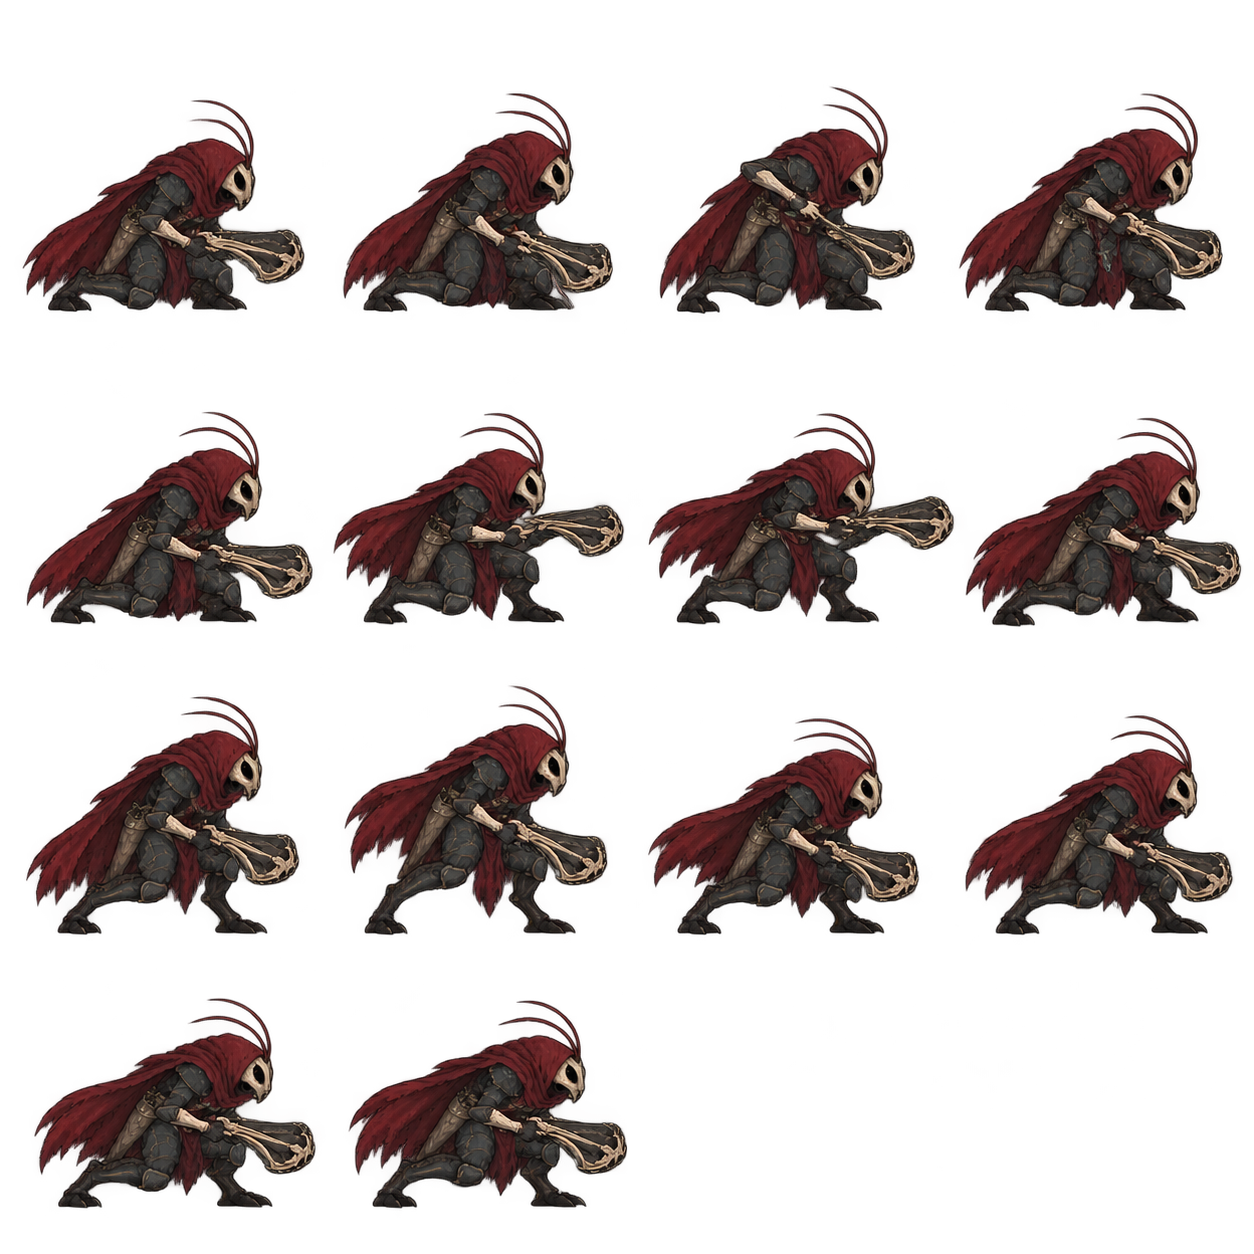
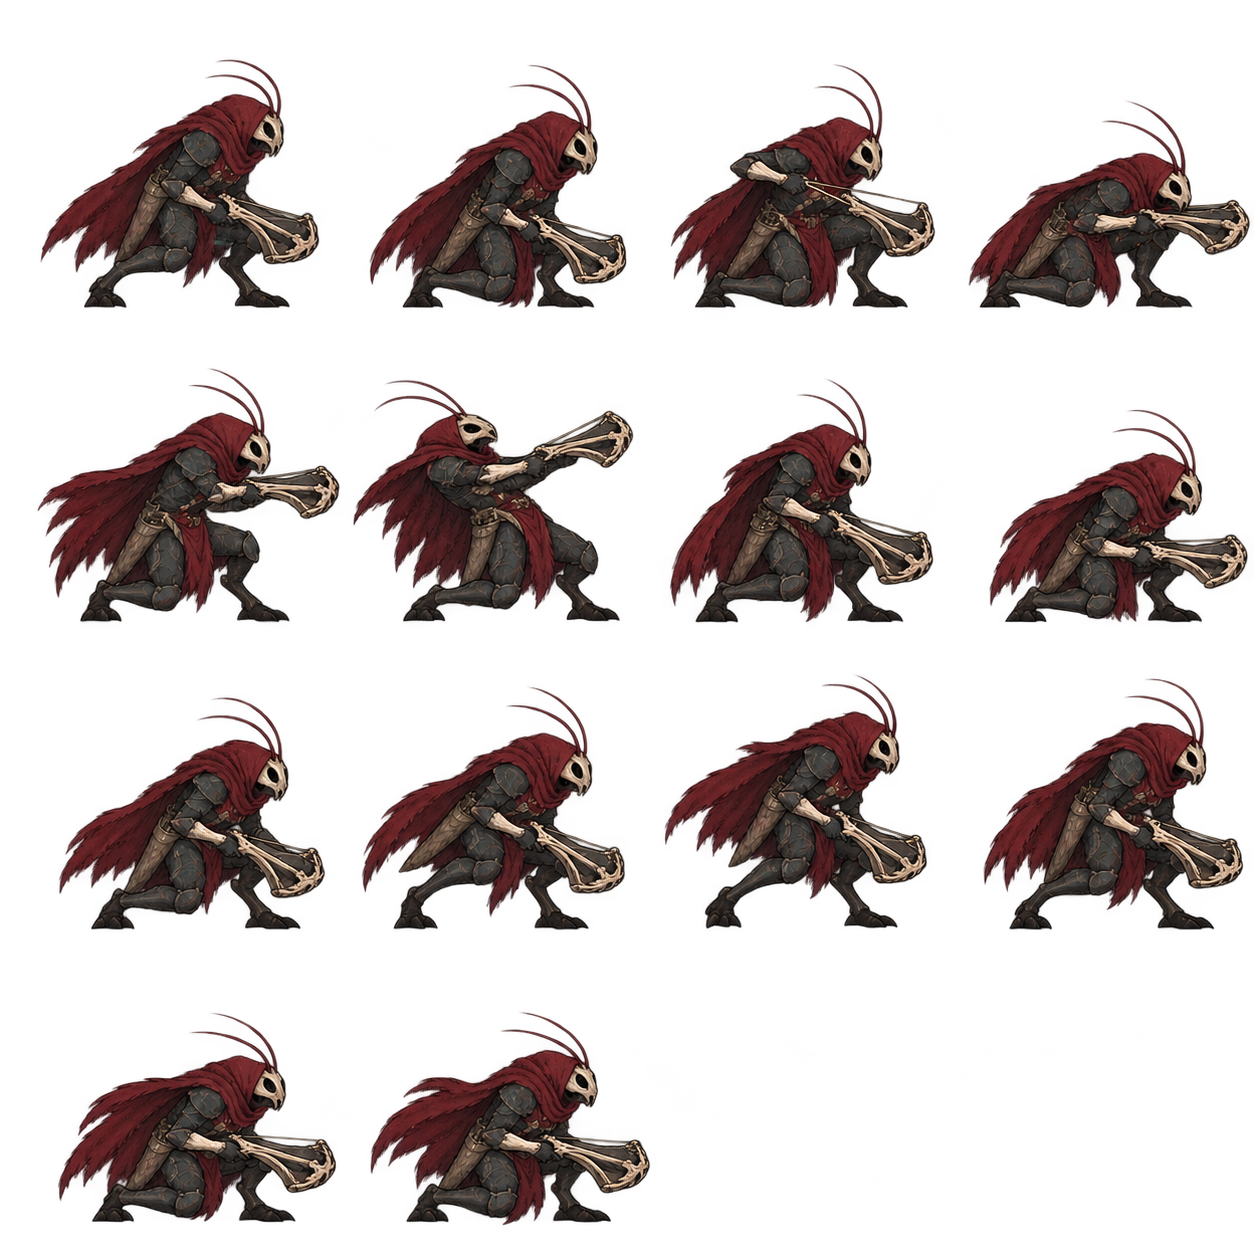
art: redraw crossbow low shot with kneeling load and recoil

diff --git a/art_requests/creature_attacks_v1/incoming/README.md b/art_requests/creature_attacks_v1/incoming/README.md
@@ -98,3 +98,5 @@
 重画记录（2026-10-18）：`bee_stingers.png` — 重画为大幅腹部下卷及前伸，第 5／7 格分别为两次明显腹刺前弹，第 6／8 格后坐；清除两格出招中多余的后向尾刺，保留 14 格。
 
 重画记录（2026-10-18）：`wax_high.png` — 重画前四格前摇，枪尖明显低于双手并压到前脚脚底线附近；出招逐步上挑，收招四格恢复竖枪，保留 12 格。
+
+重画记录（2026-10-18）：`crossbow_low.png` — 单膝跪地、拉弦、低位瞄准、明显后坐及起身回收分开绘制；保留 14 格与原骨弩比例。
